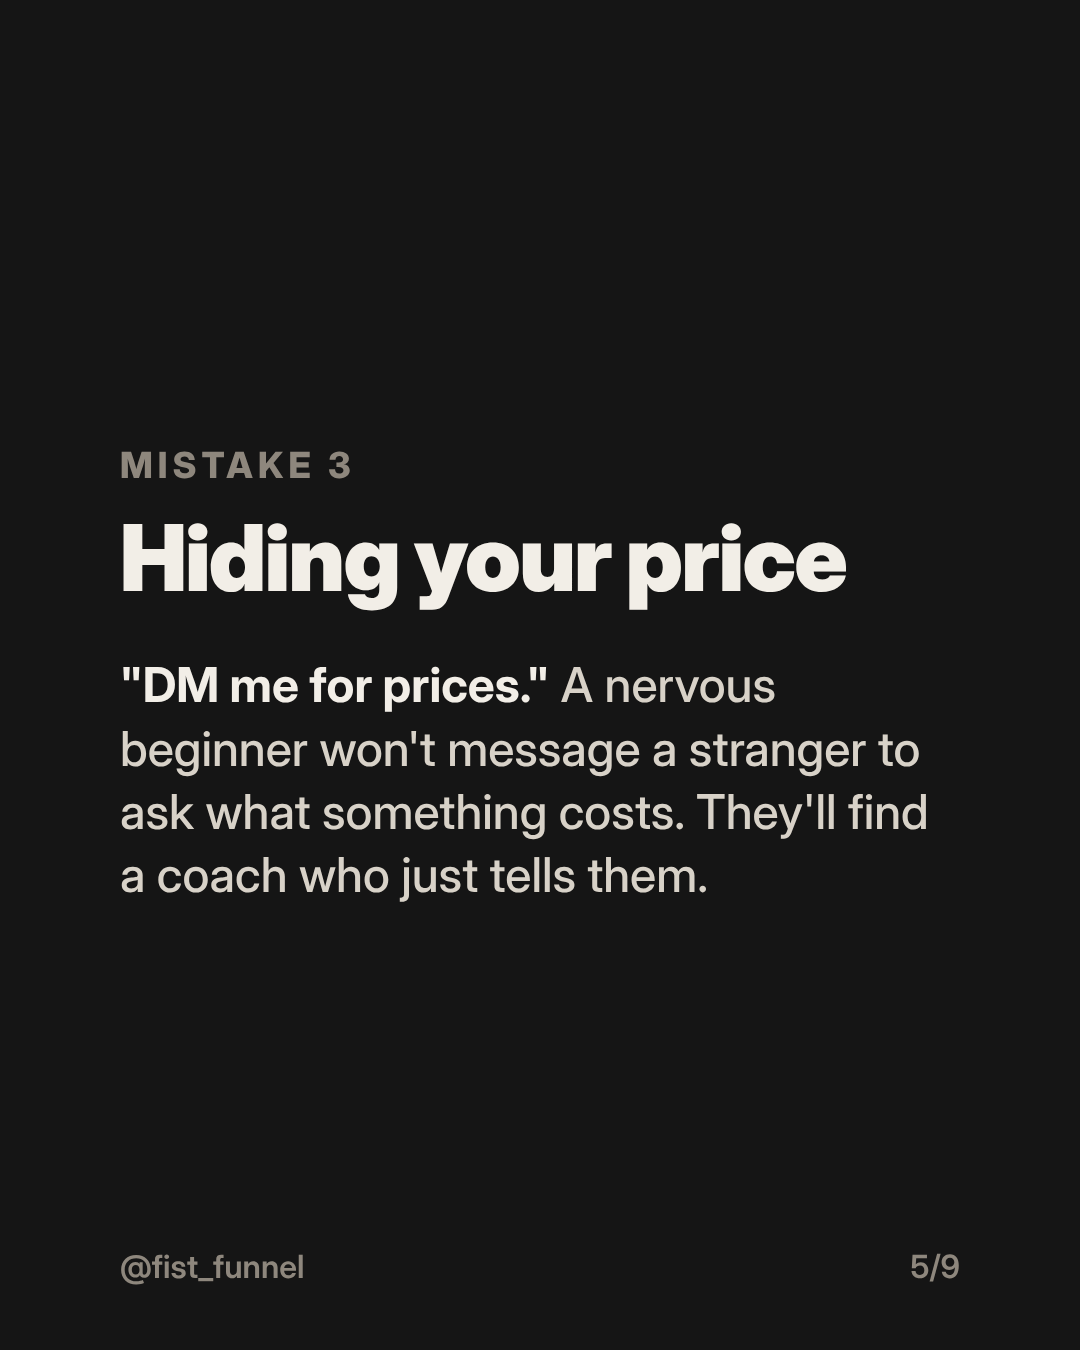
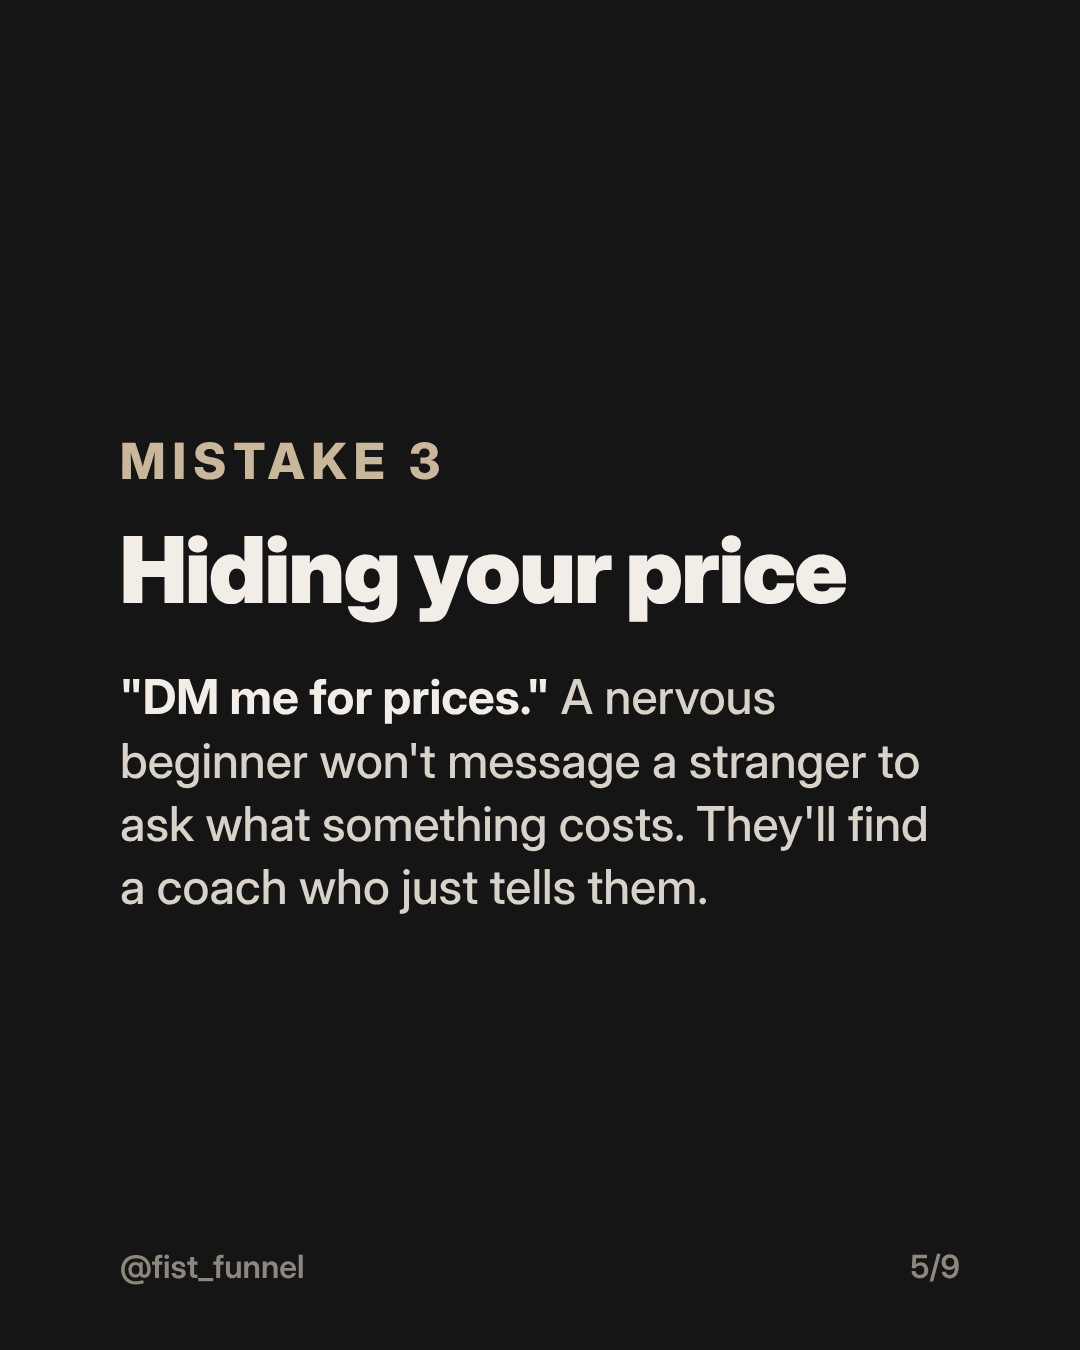
Carousel #26: sand, larger mistake labels
Claude-Session: https://claude.ai/code/session_0152oVxP5L5v7yXqzdFWbbCt

Changed region(s): [[0.0917, 0.4978, 0.8556, 0.6844], [0.0917, 0.3111, 0.7944, 0.4667]]

diff --git a/carousel-26/src/slides.py b/carousel-26/src/slides.py
@@ -23,7 +23,7 @@ mist = [
 ]
 for i,(h,b) in enumerate(mist,1):
     slides.append(("dark", f'''
-<div class="label">Mistake {i}</div>
+<div class="label mlabel">Mistake {i}</div>
 <h2 class="mid">{esc(h)}</h2>
 <p class="body">{b}</p>'''))
 slides.append(("accent", '''
@@ -63,6 +63,7 @@ h2.mid{font-size:92px;line-height:1.02;font-weight:900;letter-spacing:-.02em;mar
 .num{font-size:260px;line-height:.8;font-weight:900;color:#C9B79C;letter-spacing:-.04em;margin-bottom:36px}
 .label{font-size:36px;font-weight:800;letter-spacing:.14em;text-transform:uppercase;color:#8E877D;margin-bottom:24px}
 .label.inv{color:#3A342C}
+.mlabel{font-size:50px;color:#C9B79C;margin-bottom:32px}
 .label.dark{color:#6B655C;margin-bottom:48px}
 .quote{color:#F2EEE7;font-weight:700}
 ol.recap{list-style:none}
